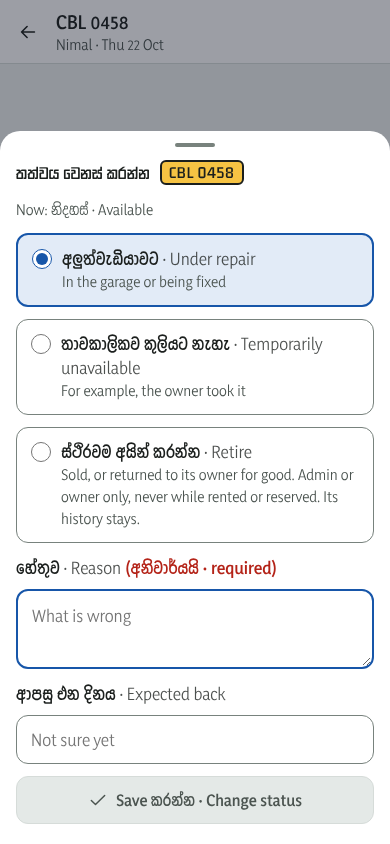
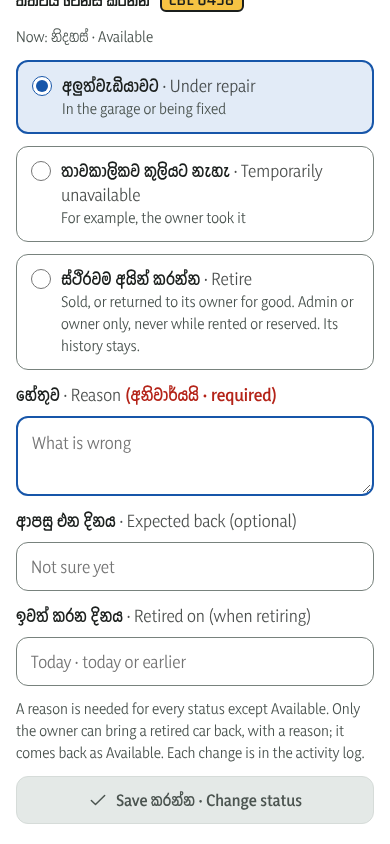
decision(cars): car status changes and retiring (#22)
System design 11 (Proposed: Dulan, 2 Nov 2026; for the owner to
confirm): the expected return date is optional for Under repair and
Temporarily unavailable (this changes a Confirmed line: the owner must
confirm); a reason for every status except Available; retire on today
or an earlier date, never before the car was added; only the primary
owner brings a retired car back, with a reason, as Available; each
change logged with old and new. PRD ST-04.5, TRD Cars row, board 04.5.

AT-20, AT-25, AT-52.

Claude-Session: https://claude.ai/code/session_01JihUABmzkdXJus8B6m8jnW

diff --git a/screens/previews/html/04-Cars-ChangeStatus-Phone.html b/screens/previews/html/04-Cars-ChangeStatus-Phone.html
@@ -517,6 +517,16 @@ a.rt-li:hover, a.rt-vrow:hover { background: var(--paper); color: var(--ink); }
   .rt-li-meta { font-size: 14px; }
   .rt-vrow { padding: var(--space-2) 16px; }
 }
+/* TextField: label over a 52px input; required in words; hint and error below (boards 01.1, 01.2). */
+.rt-field { display: flex; flex-direction: column; gap: var(--space-2); min-width: 0; }
+.rt-field-label { font-size: 16px; line-height: 26px; font-weight: 600; }
+.rt-field-req { color: var(--overdue); }
+.rt-input { min-height: 52px; padding: 12px 14px; border: 1.5px solid var(--line-strong); border-radius: var(--radius-md); background: var(--card); color: var(--ink); font: inherit; font-size: 17px; width: 100%; box-sizing: border-box; }
+.rt-input:focus { outline: none; border: 2px solid var(--sapphire); padding: 11.5px 13.5px; }
+.rt-input:focus-visible { outline: 3px solid var(--focus); outline-offset: 2px; }
+.rt-input[aria-invalid="true"] { border-color: var(--overdue); }
+.rt-field-hint { font-size: 14px; line-height: 22px; color: var(--ink-muted); }
+.rt-field-error { font-size: 14px; line-height: 22px; font-weight: 600; color: var(--overdue); }
 </style>
 
 
@@ -537,7 +547,7 @@ a{color:#1756a9}a:hover{color:#0f3e7e}
     <label style="display: flex; align-items: flex-start; gap: 10px; padding: 12px 14px; border: 1.5px solid var(--line-strong); border-radius: 12px"><input type="radio" name="s" style="width: 20px; height: 20px; margin: 2px 0px 0px; flex: 0 0 auto;"><span style="display: flex; flex-direction: column"><span style="font-size: 16px; line-height: 24px; font-weight: 600">තාවකාලිකව කුලියට නැහැ <span class="rt-en">· Temporarily unavailable</span></span><span style="font-size: 14px; line-height: 22px; color: var(--ink-muted)">For example, the owner took it</span></span></label>
 <label style="display: flex; align-items: flex-start; gap: 10px; padding: 12px 14px; border: 1.5px solid var(--line-strong); border-radius: 12px"><input name="s" style="width: 20px; height: 20px; margin: 2px 0px 0px; flex: 0 0 auto;" type="radio"><span style="display: flex; flex-direction: column"><span style="font-size: 16px; line-height: 24px; font-weight: 600">ස්ථිරවම අයින් කරන්න <span class="rt-en">· Retire</span></span><span style="font-size: 14px; line-height: 22px; color: var(--ink-muted)">Sold, or returned to its owner for good. Admin or owner only, never while rented or reserved. Its history stays.</span></span></label>
     <div style="display: flex; flex-direction: column; gap: 8px"><span style="font-size: 16px; line-height: 26px; font-weight: 600">හේතුව <span class="rt-en">· Reason</span> <span style="color: var(--overdue)">(අනිවාර්යයි · required)</span></span><textarea rows="2" placeholder="What is wrong" style="padding: 12px 14px; border-radius: 12px; background: var(--card); color: var(--ink); font-style: inherit; font-variant: inherit; font-weight: inherit; font-stretch: inherit; font-family: inherit; font-optical-sizing: inherit; font-size-adjust: inherit; font-kerning: inherit; font-feature-settings: inherit; font-variation-settings: inherit; font-language-override: inherit; font-size: 16px; line-height: 26px; resize: vertical; border: 2px solid var(--sapphire);"></textarea></div>
-    <div style="display: flex; flex-direction: column; gap: 8px"><span style="font-size: 16px; line-height: 26px; font-weight: 600">ආපසු එන දිනය <span class="rt-en">· Expected back</span></span><input placeholder="Not sure yet" style="min-height: 48px; padding: 10px 14px; border: 1.5px solid var(--line-strong); border-radius: 12px; background: var(--card); color: var(--ink); font-style: inherit; font-variant: inherit; font-weight: inherit; font-stretch: inherit; line-height: inherit; font-family: inherit; font-optical-sizing: inherit; font-size-adjust: inherit; font-kerning: inherit; font-feature-settings: inherit; font-variation-settings: inherit; font-language-override: inherit; font-size: 16px; box-sizing: border-box; width: 100%;"></div>
+    <div style="display: flex; flex-direction: column; gap: 8px"><span style="font-size: 16px; line-height: 26px; font-weight: 600">ආපසු එන දිනය <span class="rt-en">· Expected back (optional)</span></span><input placeholder="Not sure yet" style="min-height: 48px; padding: 10px 14px; border: 1.5px solid var(--line-strong); border-radius: 12px; background: var(--card); color: var(--ink); font-style: inherit; font-variant: inherit; font-weight: inherit; font-stretch: inherit; line-height: inherit; font-family: inherit; font-optical-sizing: inherit; font-size-adjust: inherit; font-kerning: inherit; font-feature-settings: inherit; font-variation-settings: inherit; font-language-override: inherit; font-size: 16px; box-sizing: border-box; width: 100%;"></div><div style="display: flex; flex-direction: column; gap: 8px"><span style="font-size: 16px; line-height: 26px; font-weight: 600">ඉවත් කරන දිනය <span class="rt-en">· Retired on (when retiring)</span></span><input placeholder="Today · today or earlier" style="min-height: 48px; padding: 10px 14px; border: 1.5px solid var(--line-strong); border-radius: 12px; background: var(--card); color: var(--ink); font-style: inherit; font-variant: inherit; font-weight: inherit; font-stretch: inherit; line-height: inherit; font-family: inherit; font-optical-sizing: inherit; font-size-adjust: inherit; font-kerning: inherit; font-feature-settings: inherit; font-variation-settings: inherit; font-language-override: inherit; font-size: 16px; box-sizing: border-box; width: 100%;"></div><div style="font-size: 14px; line-height: 22px; color: var(--ink-muted)">A reason is needed for every status except Available. Only the owner can bring a retired car back, with a reason; it comes back as Available. Each change is in the activity log.</div>
     <span data-x-import="Plate.Button" style="display: contents;"><button disabled="" type="button" class="rt-btn rt-btn-primary rt-btn-full"><svg class="rt-ico" width="20" height="20" viewBox="0 0 24 24" fill="none" stroke="currentColor" stroke-width="1.75" stroke-linecap="round" stroke-linejoin="round" aria-hidden="true"><path d="M4 12.5l5 5L20 6.5"></path></svg><span><span style="display: contents;">Save කරන්න · Change status</span></span></button></span>
   </section>
 </div>

diff --git a/screens/previews/html/04-Cars-ChangeStatus-Desktop.html b/screens/previews/html/04-Cars-ChangeStatus-Desktop.html
@@ -517,6 +517,16 @@ a.rt-li:hover, a.rt-vrow:hover { background: var(--paper); color: var(--ink); }
   .rt-li-meta { font-size: 14px; }
   .rt-vrow { padding: var(--space-2) 16px; }
 }
+/* TextField: label over a 52px input; required in words; hint and error below (boards 01.1, 01.2). */
+.rt-field { display: flex; flex-direction: column; gap: var(--space-2); min-width: 0; }
+.rt-field-label { font-size: 16px; line-height: 26px; font-weight: 600; }
+.rt-field-req { color: var(--overdue); }
+.rt-input { min-height: 52px; padding: 12px 14px; border: 1.5px solid var(--line-strong); border-radius: var(--radius-md); background: var(--card); color: var(--ink); font: inherit; font-size: 17px; width: 100%; box-sizing: border-box; }
+.rt-input:focus { outline: none; border: 2px solid var(--sapphire); padding: 11.5px 13.5px; }
+.rt-input:focus-visible { outline: 3px solid var(--focus); outline-offset: 2px; }
+.rt-input[aria-invalid="true"] { border-color: var(--overdue); }
+.rt-field-hint { font-size: 14px; line-height: 22px; color: var(--ink-muted); }
+.rt-field-error { font-size: 14px; line-height: 22px; font-weight: 600; color: var(--overdue); }
 </style>
 
 
@@ -541,7 +551,7 @@ a{color:#1756a9}a:hover{color:#0f3e7e}
 <label style="display: flex; align-items: flex-start; gap: 10px; padding: 12px 14px; border: 1.5px solid var(--line-strong); border-radius: 12px"><input name="s" style="width: 20px; height: 20px; margin: 2px 0px 0px; flex: 0 0 auto;" type="radio"><span style="display: flex; flex-direction: column"><span style="font-size: 16px; line-height: 24px; font-weight: 600">තාවකාලිකව කුලියට නැහැ <span class="rt-en">· Temporarily unavailable</span></span><span style="font-size: 14px; line-height: 22px; color: var(--ink-muted)">For example, the owner took it</span></span></label>
 <label style="display: flex; align-items: flex-start; gap: 10px; padding: 12px 14px; border: 1.5px solid var(--line-strong); border-radius: 12px"><input name="s" style="width: 20px; height: 20px; margin: 2px 0px 0px; flex: 0 0 auto;" type="radio"><span style="display: flex; flex-direction: column"><span style="font-size: 16px; line-height: 24px; font-weight: 600">ස්ථිරවම අයින් කරන්න <span class="rt-en">· Retire</span></span><span style="font-size: 14px; line-height: 22px; color: var(--ink-muted)">Sold, or returned to its owner for good. Admin or owner only, never while rented or reserved. Its history stays.</span></span></label>
 <div style="display: flex; flex-direction: column; gap: 8px"><span style="font-size: 16px; line-height: 26px; font-weight: 600">හේතුව <span class="rt-en">· Reason</span> <span style="color: var(--overdue)">(අනිවාර්යයි · required)</span></span><textarea placeholder="What is wrong" rows="2" style="padding: 12px 14px; border-radius: 12px; background: var(--card); color: var(--ink); font-style: inherit; font-variant: inherit; font-weight: inherit; font-stretch: inherit; font-family: inherit; font-optical-sizing: inherit; font-size-adjust: inherit; font-kerning: inherit; font-feature-settings: inherit; font-variation-settings: inherit; font-language-override: inherit; font-size: 16px; line-height: 26px; resize: vertical; border: 2px solid var(--sapphire);"></textarea></div>
-<div style="display: flex; flex-direction: column; gap: 8px"><span style="font-size: 16px; line-height: 26px; font-weight: 600">ආපසු එන දිනය <span class="rt-en">· Expected back</span></span><input placeholder="Not sure yet" style="min-height: 48px; padding: 10px 14px; border: 1.5px solid var(--line-strong); border-radius: 12px; background: var(--card); color: var(--ink); font-style: inherit; font-variant: inherit; font-weight: inherit; font-stretch: inherit; line-height: inherit; font-family: inherit; font-optical-sizing: inherit; font-size-adjust: inherit; font-kerning: inherit; font-feature-settings: inherit; font-variation-settings: inherit; font-language-override: inherit; font-size: 16px; box-sizing: border-box; width: 100%;"></div>
+<div style="display: flex; flex-direction: column; gap: 8px"><span style="font-size: 16px; line-height: 26px; font-weight: 600">ආපසු එන දිනය <span class="rt-en">· Expected back (optional)</span></span><input placeholder="Not sure yet" style="min-height: 48px; padding: 10px 14px; border: 1.5px solid var(--line-strong); border-radius: 12px; background: var(--card); color: var(--ink); font-style: inherit; font-variant: inherit; font-weight: inherit; font-stretch: inherit; line-height: inherit; font-family: inherit; font-optical-sizing: inherit; font-size-adjust: inherit; font-kerning: inherit; font-feature-settings: inherit; font-variation-settings: inherit; font-language-override: inherit; font-size: 16px; box-sizing: border-box; width: 100%;"></div><div style="display: flex; flex-direction: column; gap: 8px"><span style="font-size: 16px; line-height: 26px; font-weight: 600">ඉවත් කරන දිනය <span class="rt-en">· Retired on (when retiring)</span></span><input placeholder="Today · today or earlier" style="min-height: 48px; padding: 10px 14px; border: 1.5px solid var(--line-strong); border-radius: 12px; background: var(--card); color: var(--ink); font-style: inherit; font-variant: inherit; font-weight: inherit; font-stretch: inherit; line-height: inherit; font-family: inherit; font-optical-sizing: inherit; font-size-adjust: inherit; font-kerning: inherit; font-feature-settings: inherit; font-variation-settings: inherit; font-language-override: inherit; font-size: 16px; box-sizing: border-box; width: 100%;"></div><div style="font-size: 14px; line-height: 22px; color: var(--ink-muted)">A reason is needed for every status except Available. Only the owner can bring a retired car back, with a reason; it comes back as Available. Each change is in the activity log.</div>
 <span data-x-import="Plate.Button" style="display: contents;"><button disabled="" type="button" class="rt-btn rt-btn-primary rt-btn-full"><svg class="rt-ico" width="20" height="20" viewBox="0 0 24 24" fill="none" stroke="currentColor" stroke-width="1.75" stroke-linecap="round" stroke-linejoin="round" aria-hidden="true"><path d="M4 12.5l5 5L20 6.5"></path></svg><span><span style="display: contents;">Save කරන්න · Change status</span></span></button></span>
 </section></div>
     </main>

diff --git a/screens/canvas/04-Cars-ChangeStatus-Phone.dc.html b/screens/canvas/04-Cars-ChangeStatus-Phone.dc.html
@@ -27,7 +27,7 @@ a{color:#1756a9}a:hover{color:#0f3e7e}
     <label style="display: flex; align-items: flex-start; gap: 10px; padding: 12px 14px; border: 1.5px solid var(--line-strong); border-radius: 12px"><input type="radio" name="s"  style="width: 20px; height: 20px; margin: 2px 0 0; flex: none"><span style="display: flex; flex-direction: column"><span style="font-size: 16px; line-height: 24px; font-weight: 600">තාවකාලිකව කුලියට නැහැ <span class="rt-en">· Temporarily unavailable</span></span><span style="font-size: 14px; line-height: 22px; color: var(--ink-muted)">For example, the owner took it</span></span></label>
 <label style="display: flex; align-items: flex-start; gap: 10px; padding: 12px 14px; border: 1.5px solid var(--line-strong); border-radius: 12px"><input name="s" style="width: 20px; height: 20px; margin: 2px 0 0; flex: none" type="radio"/><span style="display: flex; flex-direction: column"><span style="font-size: 16px; line-height: 24px; font-weight: 600">ස්ථිරවම අයින් කරන්න <span class="rt-en">· Retire</span></span><span style="font-size: 14px; line-height: 22px; color: var(--ink-muted)">Sold, or returned to its owner for good. Admin or owner only, never while rented or reserved. Its history stays.</span></span></label>
     <div style="display: flex; flex-direction: column; gap: 8px"><span style="font-size: 16px; line-height: 26px; font-weight: 600">හේතුව <span class="rt-en">· Reason</span> <span style="color: var(--overdue)">(අනිවාර්යයි · required)</span></span><textarea rows="2" placeholder="What is wrong" style="padding: 12px 14px; border: 1.5px solid var(--line-strong); border-radius: 12px; background: var(--card); color: var(--ink); font: inherit; font-size: 16px; line-height: 26px; resize: vertical; border: 2px solid var(--sapphire)"></textarea></div>
-    <div style="display: flex; flex-direction: column; gap: 8px"><span style="font-size: 16px; line-height: 26px; font-weight: 600">ආපසු එන දිනය <span class="rt-en">· Expected back</span></span><input placeholder="Not sure yet" style="min-height: 48px; padding: 10px 14px; border: 1.5px solid var(--line-strong); border-radius: 12px; background: var(--card); color: var(--ink); font: inherit; font-size: 16px; box-sizing: border-box; width: 100%"></div>
+    <div style="display: flex; flex-direction: column; gap: 8px"><span style="font-size: 16px; line-height: 26px; font-weight: 600">ආපසු එන දිනය <span class="rt-en">· Expected back (optional)</span></span><input placeholder="Not sure yet" style="min-height: 48px; padding: 10px 14px; border: 1.5px solid var(--line-strong); border-radius: 12px; background: var(--card); color: var(--ink); font: inherit; font-size: 16px; box-sizing: border-box; width: 100%"></div><div style="display: flex; flex-direction: column; gap: 8px"><span style="font-size: 16px; line-height: 26px; font-weight: 600">ඉවත් කරන දිනය <span class="rt-en">· Retired on (when retiring)</span></span><input placeholder="Today · today or earlier" style="min-height: 48px; padding: 10px 14px; border: 1.5px solid var(--line-strong); border-radius: 12px; background: var(--card); color: var(--ink); font: inherit; font-size: 16px; box-sizing: border-box; width: 100%"></div><div style="font-size: 14px; line-height: 22px; color: var(--ink-muted)">A reason is needed for every status except Available. Only the owner can bring a retired car back, with a reason; it comes back as Available. Each change is in the activity log.</div>
     <x-import component-from-global-scope="Plate.Button" icon="check" full="{{yes}}" disabled="{{yes}}">Save කරන්න · Change status</x-import>
   </section>
 </div>

diff --git a/screens/canvas/04-Cars-ChangeStatus-Desktop.dc.html b/screens/canvas/04-Cars-ChangeStatus-Desktop.dc.html
@@ -31,7 +31,7 @@ a{color:#1756a9}a:hover{color:#0f3e7e}
 <label style="display: flex; align-items: flex-start; gap: 10px; padding: 12px 14px; border: 1.5px solid var(--line-strong); border-radius: 12px"><input name="s" style="width: 20px; height: 20px; margin: 2px 0 0; flex: none" type="radio"/><span style="display: flex; flex-direction: column"><span style="font-size: 16px; line-height: 24px; font-weight: 600">තාවකාලිකව කුලියට නැහැ <span class="rt-en">· Temporarily unavailable</span></span><span style="font-size: 14px; line-height: 22px; color: var(--ink-muted)">For example, the owner took it</span></span></label>
 <label style="display: flex; align-items: flex-start; gap: 10px; padding: 12px 14px; border: 1.5px solid var(--line-strong); border-radius: 12px"><input name="s" style="width: 20px; height: 20px; margin: 2px 0 0; flex: none" type="radio"/><span style="display: flex; flex-direction: column"><span style="font-size: 16px; line-height: 24px; font-weight: 600">ස්ථිරවම අයින් කරන්න <span class="rt-en">· Retire</span></span><span style="font-size: 14px; line-height: 22px; color: var(--ink-muted)">Sold, or returned to its owner for good. Admin or owner only, never while rented or reserved. Its history stays.</span></span></label>
 <div style="display: flex; flex-direction: column; gap: 8px"><span style="font-size: 16px; line-height: 26px; font-weight: 600">හේතුව <span class="rt-en">· Reason</span> <span style="color: var(--overdue)">(අනිවාර්යයි · required)</span></span><textarea placeholder="What is wrong" rows="2" style="padding: 12px 14px; border: 1.5px solid var(--line-strong); border-radius: 12px; background: var(--card); color: var(--ink); font: inherit; font-size: 16px; line-height: 26px; resize: vertical; border: 2px solid var(--sapphire)"></textarea></div>
-<div style="display: flex; flex-direction: column; gap: 8px"><span style="font-size: 16px; line-height: 26px; font-weight: 600">ආපසු එන දිනය <span class="rt-en">· Expected back</span></span><input placeholder="Not sure yet" style="min-height: 48px; padding: 10px 14px; border: 1.5px solid var(--line-strong); border-radius: 12px; background: var(--card); color: var(--ink); font: inherit; font-size: 16px; box-sizing: border-box; width: 100%"/></div>
+<div style="display: flex; flex-direction: column; gap: 8px"><span style="font-size: 16px; line-height: 26px; font-weight: 600">ආපසු එන දිනය <span class="rt-en">· Expected back (optional)</span></span><input placeholder="Not sure yet" style="min-height: 48px; padding: 10px 14px; border: 1.5px solid var(--line-strong); border-radius: 12px; background: var(--card); color: var(--ink); font: inherit; font-size: 16px; box-sizing: border-box; width: 100%"/></div><div style="display: flex; flex-direction: column; gap: 8px"><span style="font-size: 16px; line-height: 26px; font-weight: 600">ඉවත් කරන දිනය <span class="rt-en">· Retired on (when retiring)</span></span><input placeholder="Today · today or earlier" style="min-height: 48px; padding: 10px 14px; border: 1.5px solid var(--line-strong); border-radius: 12px; background: var(--card); color: var(--ink); font: inherit; font-size: 16px; box-sizing: border-box; width: 100%"/></div><div style="font-size: 14px; line-height: 22px; color: var(--ink-muted)">A reason is needed for every status except Available. Only the owner can bring a retired car back, with a reason; it comes back as Available. Each change is in the activity log.</div>
 <x-import component-from-global-scope="Plate.Button" disabled="{{yes}}" full="{{yes}}" icon="check">Save කරන්න · Change status</x-import>
 </section></div>
     </main>

diff --git a/TRD.md b/TRD.md
@@ -74,7 +74,7 @@ Tables follow the system design's core records (Logical structure, Core records 
 | --- | --- |
 | Identity | `user`, `session`, `account`, `verification` (Better Auth), `permission_grant`, `audit_event` |
 | Customers | `customer` (NIC unique), `customer_flag` (open/closed, reason, closed_by), `reference_person`, `customer_document` (a customer's private copies; later agreement photos and reference-person copies get their own tables), `document_access` (who opened what, when). Copies are insert-only until the 7-year deletion list is built: that migration lets the owner's deletion remove them |
-| Cars | `vehicle` (with its `partner_owner`, once linked), `partner_owner` (the partner's `user` account, NIC, bank account, agreement signed on), `vehicle_terms_version` (rate, km, extra km, commission, surcharge, garage-day, cost responsibilities; effective from), `starting_package` (a name, rate, km a day, extra km), `starting_package_model` (which models a package is for; a model can be in several), `vehicle.starting_package_id` (the package the car started from), `package_default` (the shared defaults), `vehicle_status_event` |
+| Cars | `vehicle` (with its `partner_owner`, once linked), `partner_owner` (the partner's `user` account, NIC, bank account, agreement signed on), `vehicle_terms_version` (rate, km, extra km, commission, surcharge, garage-day, cost responsibilities; effective from), `starting_package` (a name, rate, km a day, extra km), `starting_package_model` (which models a package is for; a model can be in several), `vehicle.starting_package_id` (the package the car started from), `package_default` (the shared defaults), `vehicle_status_event` (insert-only: status, reason, expected back, retired on; the newest is the car's status) |
 | Rentals | `reservation`, `rental`, `rental_terms_snapshot`, `rental_vehicle_segment` (car, readings, saved terms, swap-day decision), `rental_event` (extension, swap, return) |
 | Charges and money | `charge`, `adjustment`, `payment`, `payment_allocation`, `deposit_movement`, `refund`, `cash_movement`, `reconciliation` (waiting/matched/flagged), `discrepancy` |
 | Partners | `earning_line` (per car, per day or per charge; final_at), `cashout_request`, `payout`, `owner_expense_recovery`, `opening_balance` |

diff --git a/PRD.md b/PRD.md
@@ -414,6 +414,7 @@ Month 1: who signs in and what they may do, customers and their documents, cars 
   - The owner's own use marks the car unavailable with a reason and an expected return date, with no trip or km tracking.
   - A car that is sold or returned for good is retired by an admin or the owner, with a reason and date, only when it is not rented or reserved: no new rentals, every past record kept, and a partner's balance from it stays payable.
   - Rented and Overdue come from the rental itself, not from this screen.
+  - *Proposed (Dulan, 2 Nov 2026):* the expected return date is optional for Under repair and Unavailable (it changes a Confirmed line: the owner must confirm); a reason for each status except Available; retire on today or an earlier date, not before the car was added; only the owner brings a retired car back, with a reason; each change logged with old and new. System design → [Asset records, maintenance, and availability](SNS_SYSTEM_DESIGN.md#11-asset-records-maintenance-and-availability).
 - **Checks:** AT-20 "Vehicle marked under repair: rental handover blocked until an authorised availability change". AT-25 "Retire a vehicle: no new rentals; history and money owed kept". AT-52 "Staff try to retire a car; an admin retires a car reserved next week: staff cannot; the admin is refused until the reservation is moved or cancelled".
 - **Screens:** 04.5 Change a car's status, 04.7 Car status blocks · reference.
 - **Decided:** DN-01 (staff and admins set Under repair or Unavailable; the admin marks a car available).

diff --git a/SNS_SYSTEM_DESIGN.md b/SNS_SYSTEM_DESIGN.md
@@ -393,6 +393,7 @@ Track servicing by date and mileage, repairs, insurance expiry, vehicle-licence 
 - Expired insurance/licence documents warn staff; proceeding requires the authorised admin decision and reason.
 - Temporary owner use can mark the vehicle unavailable with a reason and expected return date, without trip or kilometre tracking.
 - Permanently returned/sold vehicles are retired while all historical rental, maintenance, and financial records remain accessible to authorised users. An admin or the primary owner retires a vehicle, with a reason and date, only when it is not rented or reserved. A partner's balance from it stays payable (Confirmed: agreed by the owner, recorded by Dulan).
+- Changing a car's status (Proposed: Dulan, 2 Nov 2026; for the owner to confirm): the expected return date is optional for both Under repair and Temporarily unavailable, and can be changed later. This changes the Confirmed line above, which gives owner use an expected return date: the owner must confirm it. Under repair, Temporarily unavailable and retiring each need a reason; marking a car available needs none. A car is retired on today's date or an earlier one, never before the car was added. Only the primary owner can bring a retired car back, with a reason; it comes back as Available. Every status change is in the activity log with the old and new status.
 
 Detailed non-rental movement/odometer tracking is a future extension, not a launch requirement.
 
